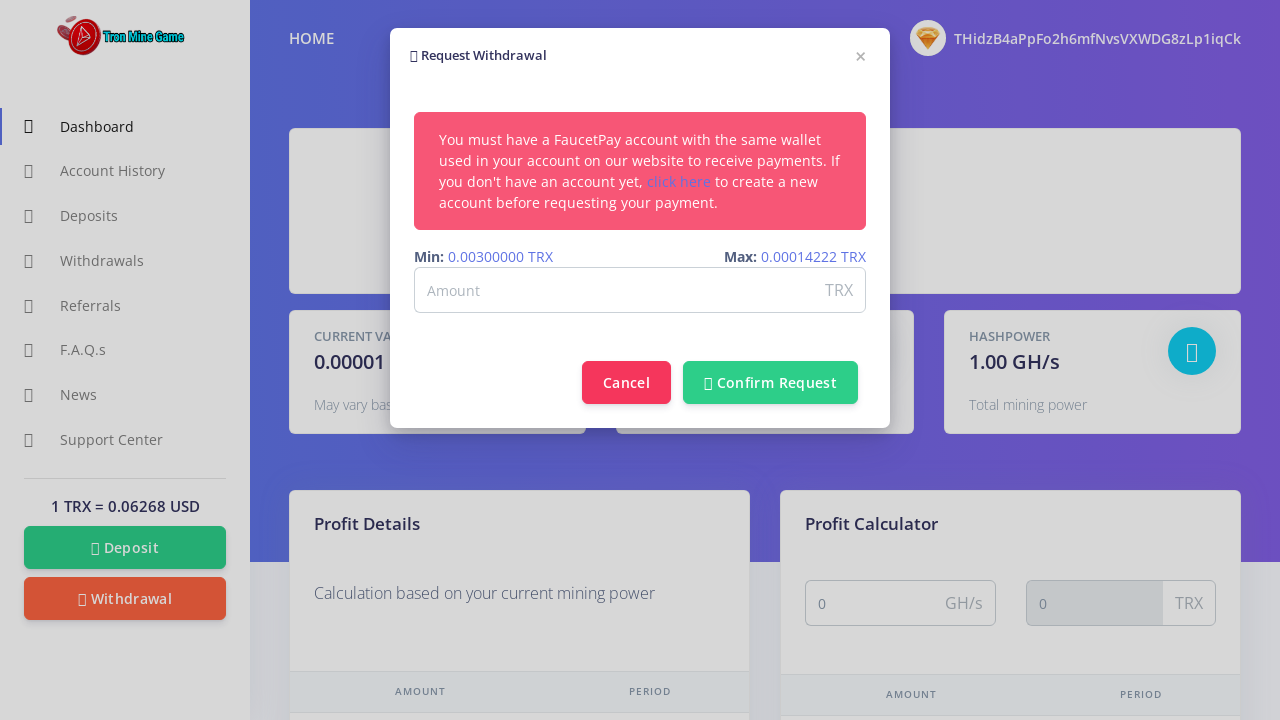
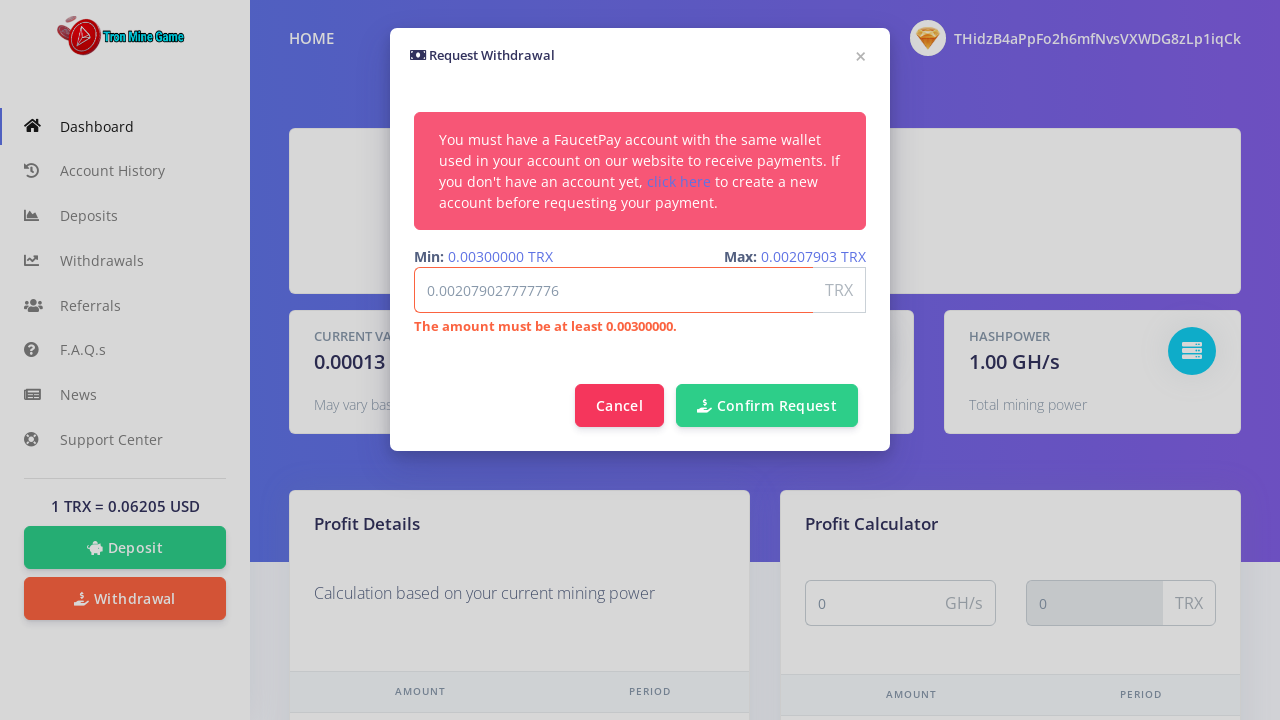
inkah

diff --git a/add.py b/add.py
@@ -1,27 +1,18 @@
 import requests
 import time
 
-head = {'authority': 'api.faucetpay.io', 'accept': 'application/json, text/plain, */*', 'accept-encoding': 'gzip, deflate, br', 'accept-language': 'en-US,en;q=0.9,id;q=0.8', 'authorization': 'Bearer 3b0860ea9cf70809919281466257689cfef97c1fd24e1d771b7f415e64feab84', 'content-type': 'application/json', 'origin': 'https://faucetpay.io', 'referer': 'https://faucetpay.io/', 'user-agent': 'Mozilla/5.0 (Linux; Android 6.0; Nexus 5 Build/MRA58N) AppleWebKit/537.36 (KHTML, like Gecko) Chrome/109.0.0.0 Mobile Safari/537.36'}
+head = {'authority': 'api.faucetpay.io', 'accept': 'application/json, text/plain, */*', 'accept-language': 'en-US,en;q=0.9,id;q=0.8', 'authorization': 'Bearer 3b0860ea9cf70809919281466257689cfef97c1fd24e1d771b7f415e64feab84', 'content-type': 'application/json', 'origin': 'https://faucetpay.io', 'referer': 'https://faucetpay.io/', 'user-agent': 'Mozilla/5.0 (Linux; Android 6.0; Nexus 5 Build/MRA58N) AppleWebKit/537.36 (KHTML, like Gecko) Chrome/109.0.0.0 Mobile Safari/537.36'}
 
 file = open("trxAdd.txt", mode='r')
 
 conten = file.read()
 
-list = conten.split("\n")
-#print(list)
+wl = conten.split("\n")
+
+def runer(walet, x):
+	r = requests.post('https://api.faucetpay.io/wallet/link-address', headers=head, json={"coin": "TRX", "label": "TRONGG " + str(x), "address": str(walet)})
+	print(r.text)
+
 x = 0
-while True :
-	if x <= 7190 :
-		walet = str(list[x])
 
-		x+=1
-
-		r = requests.post('https://api.faucetpay.io/wallet/link-address', headers=head, json={"coin": "TRX", "label": "TRONGG " + str(x), "address": str(walet)})
-
-		time.sleep(10)
-
-		print(str(walet) + ' Wallet Ke ' + str(x))
-
-	else :
-
-		print('SUDAH HABIS')
+runer(wl[x], x)

diff --git a/test.py b/test.py
@@ -16,7 +16,9 @@ def run(playwright):
     time.sleep(10)
     page.locator("#sidenav-collapse-main > a.btn.btn-warning.btn-block").click()
     time.sleep(5)
-    page.get_by_placeholder("Amount").fill('0.00300000')
+    page.locator("#withdrawalModal > div > div > div.modal-body > div.row.text-sm > div.col-6.text-right > a").click()
+    time.sleep(3)
+    page.get_by_role("button", name=" Confirm Request").click()
     time.sleep(3)
     page.screenshot(path="screenshot.png")
     browser.close()
